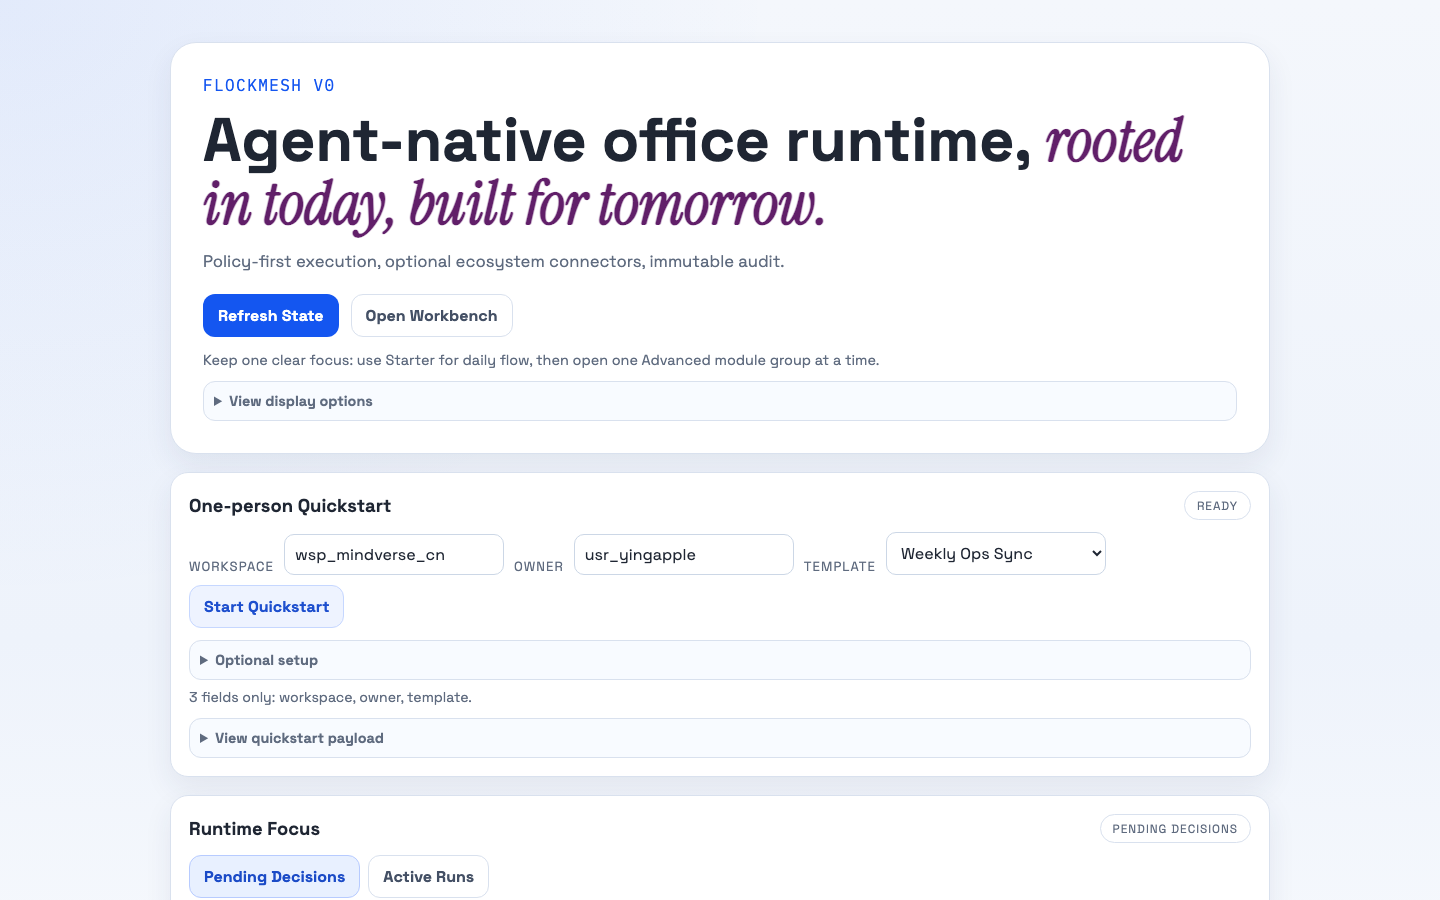
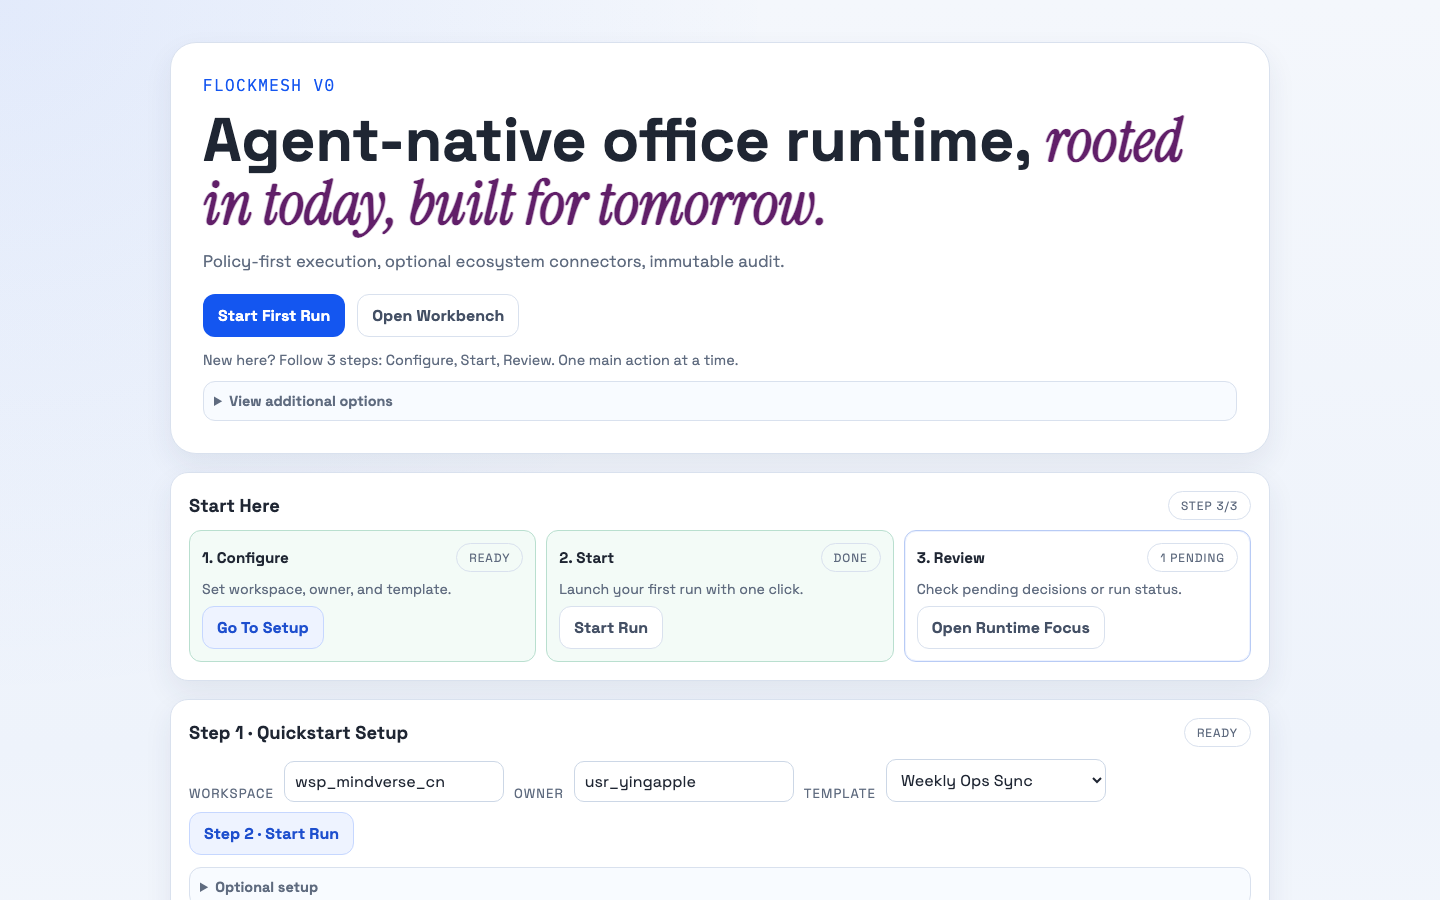
feat: enforce path-first onboarding and single-focus CTAs

diff --git a/public/ui.js b/public/ui.js
@@ -55,10 +55,23 @@ const WORKBENCH_SECTION_SET = new Set(['agent', 'governance', 'observability']);
 
 const els = {
   bootstrapBtn: document.getElementById('bootstrapBtn'),
+  heroStartQuickstartBtn: document.getElementById('heroStartQuickstartBtn'),
   refreshBtn: document.getElementById('refreshBtn'),
   starterModeBtn: document.getElementById('starterModeBtn'),
   advancedModeBtn: document.getElementById('advancedModeBtn'),
   compactToggleBtn: document.getElementById('compactToggleBtn'),
+  quickstartSection: document.getElementById('quickstartSection'),
+  runtimeFocusSection: document.getElementById('runtimeFocusSection'),
+  journeyTag: document.getElementById('journeyTag'),
+  journeyStepSetup: document.getElementById('journeyStepSetup'),
+  journeyStepRun: document.getElementById('journeyStepRun'),
+  journeyStepReview: document.getElementById('journeyStepReview'),
+  journeySetupStatus: document.getElementById('journeySetupStatus'),
+  journeyRunStatus: document.getElementById('journeyRunStatus'),
+  journeyReviewStatus: document.getElementById('journeyReviewStatus'),
+  journeyGoSetupBtn: document.getElementById('journeyGoSetupBtn'),
+  journeyStartRunBtn: document.getElementById('journeyStartRunBtn'),
+  journeyReviewBtn: document.getElementById('journeyReviewBtn'),
   quickstartTag: document.getElementById('quickstartTag'),
   quickstartWorkspaceInput: document.getElementById('quickstartWorkspaceInput'),
   quickstartOwnerInput: document.getElementById('quickstartOwnerInput'),
@@ -369,6 +382,55 @@ function setRuntimeView(view) {
   els.runtimeViewRunsBtn.classList.toggle('btn-secondary', !showApprovals);
   els.runtimeViewRunsBtn.classList.toggle('btn-ghost', showApprovals);
   els.runtimeFocusTag.textContent = showApprovals ? 'pending decisions' : 'active runs';
+}
+
+function quickstartSetupReady() {
+  const workspaceId = String(els.quickstartWorkspaceInput.value || '').trim();
+  const ownerId = String(els.quickstartOwnerInput.value || '').trim();
+  const templateId = selectedQuickstartTemplateId();
+  return Boolean(workspaceId && ownerId && templateId);
+}
+
+function focusQuickstartSetup() {
+  els.quickstartSection.scrollIntoView({ behavior: 'smooth', block: 'start' });
+  if (!String(els.quickstartWorkspaceInput.value || '').trim()) {
+    els.quickstartWorkspaceInput.focus();
+    return;
+  }
+  if (!String(els.quickstartOwnerInput.value || '').trim()) {
+    els.quickstartOwnerInput.focus();
+    return;
+  }
+  els.quickstartStartBtn.focus();
+}
+
+function updateJourneyState() {
+  const setupReady = quickstartSetupReady();
+  const hasRuns = state.runs.length > 0;
+  const pendingCount = state.pendingApprovals.length;
+  const activeStep = !setupReady ? 1 : (hasRuns ? 3 : 2);
+
+  els.journeyTag.textContent = `step ${activeStep}/3`;
+  els.journeySetupStatus.textContent = setupReady ? 'ready' : 'required';
+  els.journeyRunStatus.textContent = hasRuns ? 'done' : (setupReady ? 'next' : 'blocked');
+  els.journeyReviewStatus.textContent = hasRuns ? (pendingCount ? `${pendingCount} pending` : 'ready') : 'locked';
+
+  els.journeyStepSetup.classList.toggle('is-active', activeStep === 1);
+  els.journeyStepRun.classList.toggle('is-active', activeStep === 2);
+  els.journeyStepReview.classList.toggle('is-active', activeStep === 3);
+  els.journeyStepSetup.classList.toggle('is-complete', setupReady);
+  els.journeyStepRun.classList.toggle('is-complete', hasRuns);
+  els.journeyStepReview.classList.toggle('is-complete', hasRuns && pendingCount === 0);
+
+  els.journeyStartRunBtn.disabled = !setupReady;
+  els.journeyReviewBtn.disabled = !hasRuns;
+  els.heroStartQuickstartBtn.disabled = !setupReady;
+}
+
+function openRuntimeReview() {
+  const preferred = state.pendingApprovals.length ? 'approvals' : 'runs';
+  setRuntimeView(preferred);
+  els.runtimeFocusSection.scrollIntoView({ behavior: 'smooth', block: 'start' });
 }
 
 function listWorkbenchGroups() {
@@ -2048,6 +2110,7 @@ function refreshRuntimeViews() {
   renderRunFeed();
   renderApprovalInbox();
   setRuntimeView(state.runtimeView);
+  updateJourneyState();
   refreshTimelineRunSelect();
 }
 
@@ -2079,6 +2142,7 @@ async function startOnePersonQuickstart() {
       loadConnectorGovernance()
     ]);
     refreshRuntimeViews();
+    openRuntimeReview();
     await refreshTimelineForSelectedRun();
 
     logAction(`quickstart:${templateId}`, {
@@ -2224,8 +2288,34 @@ async function bootstrapDemo() {
 }
 
 els.bootstrapBtn.addEventListener('click', bootstrapDemo);
+els.heroStartQuickstartBtn.addEventListener('click', async () => {
+  if (!quickstartSetupReady()) {
+    focusQuickstartSetup();
+    return;
+  }
+  await startOnePersonQuickstart();
+});
+els.journeyGoSetupBtn.addEventListener('click', () => {
+  focusQuickstartSetup();
+});
+els.journeyStartRunBtn.addEventListener('click', async () => {
+  if (!quickstartSetupReady()) {
+    focusQuickstartSetup();
+    return;
+  }
+  await startOnePersonQuickstart();
+});
+els.journeyReviewBtn.addEventListener('click', () => {
+  openRuntimeReview();
+});
 els.quickstartStartBtn.addEventListener('click', async () => {
   await startOnePersonQuickstart();
+});
+els.quickstartWorkspaceInput.addEventListener('input', () => {
+  updateJourneyState();
+});
+els.quickstartOwnerInput.addEventListener('input', () => {
+  updateJourneyState();
 });
 els.quickstartTemplateSelect.addEventListener('change', () => {
   if (!parseCsvUnique(els.quickstartConnectorIdsInput.value).length) {
@@ -2235,8 +2325,9 @@ els.quickstartTemplateSelect.addEventListener('change', () => {
   if (!state.quickstartResult) {
     const templateId = selectedQuickstartTemplateId();
     const template = ONE_PERSON_QUICKSTART_TEMPLATES[templateId];
-    els.quickstartMeta.textContent = `Template ${template?.label || templateId} selected. Click Start Quickstart.`;
+    els.quickstartMeta.textContent = `Template ${template?.label || templateId} selected. Click Step 2 · Start Run.`;
   }
+  updateJourneyState();
 });
 els.blueprintReloadBtn.addEventListener('click', async () => {
   await loadAgentKits();
@@ -2532,6 +2623,7 @@ try {
     openPrimaryWorkbenchGroup();
   }
   setCompactMode(readInitialCompactMode(), { persist: false });
+  updateJourneyState();
   await Promise.all([
     loadHealth(),
     syncState(),

diff --git a/public/index.html b/public/index.html
@@ -27,24 +27,58 @@
           Policy-first execution, optional ecosystem connectors, immutable audit.
         </p>
         <div class="hero-actions">
-          <button id="refreshBtn" class="btn btn-primary">Refresh State</button>
-          <button id="starterModeBtn" class="btn btn-ghost">Back To Focus</button>
+          <button id="heroStartQuickstartBtn" class="btn btn-primary" data-ui-mode="starter">Start First Run</button>
           <button id="advancedModeBtn" class="btn btn-ghost">Open Workbench</button>
         </div>
         <p class="hero-helper">
-          Keep one clear focus: use Starter for daily flow, then open one Advanced module group at a time.
+          New here? Follow 3 steps: Configure, Start, Review. One main action at a time.
         </p>
         <details class="advanced-tools-details progressive-disclosure hero-disclosure">
-          <summary>View display options</summary>
+          <summary>View additional options</summary>
           <div class="timeline-controls">
+            <button id="refreshBtn" class="btn btn-ghost">Refresh State</button>
+            <button id="starterModeBtn" class="btn btn-ghost">Back To Focus</button>
             <button id="compactToggleBtn" class="btn btn-ghost">Compact: Off</button>
           </div>
         </details>
       </header>
 
-      <section class="panel reveal">
+      <section class="panel reveal journey-panel" data-ui-mode="starter">
         <div class="panel-head">
-          <h2>One-person Quickstart</h2>
+          <h2>Start Here</h2>
+          <span id="journeyTag" class="tag">step 1/3</span>
+        </div>
+        <div class="journey-grid">
+          <article id="journeyStepSetup" class="journey-step is-active">
+            <div class="journey-head">
+              <h3>1. Configure</h3>
+              <span id="journeySetupStatus" class="tag">required</span>
+            </div>
+            <p class="run-meta">Set workspace, owner, and template.</p>
+            <button id="journeyGoSetupBtn" class="btn btn-secondary">Go To Setup</button>
+          </article>
+          <article id="journeyStepRun" class="journey-step">
+            <div class="journey-head">
+              <h3>2. Start</h3>
+              <span id="journeyRunStatus" class="tag">next</span>
+            </div>
+            <p class="run-meta">Launch your first run with one click.</p>
+            <button id="journeyStartRunBtn" class="btn btn-ghost">Start Run</button>
+          </article>
+          <article id="journeyStepReview" class="journey-step">
+            <div class="journey-head">
+              <h3>3. Review</h3>
+              <span id="journeyReviewStatus" class="tag">locked</span>
+            </div>
+            <p class="run-meta">Check pending decisions or run status.</p>
+            <button id="journeyReviewBtn" class="btn btn-ghost">Open Runtime Focus</button>
+          </article>
+        </div>
+      </section>
+
+      <section class="panel reveal" id="quickstartSection">
+        <div class="panel-head">
+          <h2>Step 1 · Quickstart Setup</h2>
           <span id="quickstartTag" class="tag">ready</span>
         </div>
         <div class="timeline-controls quickstart-primary">
@@ -57,7 +91,7 @@
             <option value="weekly_ops_sync">Weekly Ops Sync</option>
             <option value="incident_response">Incident Response</option>
           </select>
-          <button id="quickstartStartBtn" class="btn btn-secondary">Start Quickstart</button>
+          <button id="quickstartStartBtn" class="btn btn-secondary">Step 2 · Start Run</button>
         </div>
         <details class="advanced-tools-details progressive-disclosure">
           <summary>Optional setup</summary>
@@ -85,9 +119,9 @@
         </details>
       </section>
 
-      <section class="panel reveal">
+      <section class="panel reveal" id="runtimeFocusSection">
         <div class="panel-head">
-          <h2>Runtime Focus</h2>
+          <h2>Step 3 · Runtime Focus</h2>
           <span id="runtimeFocusTag" class="tag">pending decisions</span>
         </div>
         <div class="mode-tabs">

diff --git a/public/styles.css b/public/styles.css
@@ -111,6 +111,50 @@ body {
   margin-top: 10px;
 }
 
+.journey-panel {
+  border-color: #cbd8ef;
+}
+
+.journey-grid {
+  margin-top: 10px;
+  display: grid;
+  grid-template-columns: repeat(3, minmax(0, 1fr));
+  gap: 10px;
+}
+
+.journey-step {
+  border: 1px solid #d9e1ee;
+  border-radius: 12px;
+  background: #fff;
+  padding: 12px;
+}
+
+.journey-step.is-active {
+  border-color: #b8cbf5;
+  box-shadow: inset 0 0 0 1px rgba(20, 86, 240, 0.08);
+}
+
+.journey-step.is-complete {
+  border-color: #b9dfcf;
+  background: #f3fbf7;
+}
+
+.journey-head {
+  display: flex;
+  align-items: center;
+  justify-content: space-between;
+  gap: 8px;
+}
+
+.journey-head h3 {
+  margin: 0;
+  font-size: 0.95rem;
+}
+
+.journey-step .btn {
+  margin-top: 8px;
+}
+
 .mode-tabs {
   margin-top: 12px;
   display: flex;
@@ -618,6 +662,12 @@ body {
   transform: translateY(0);
 }
 
+.btn:disabled {
+  opacity: 0.45;
+  cursor: not-allowed;
+  transform: none;
+}
+
 .btn-primary {
   background: var(--accent-0);
   color: #fff;
@@ -765,6 +815,10 @@ body.compact-mode .code-box {
 }
 
 @media (max-width: 900px) {
+  .journey-grid {
+    grid-template-columns: 1fr;
+  }
+
   .focus-metrics {
     grid-template-columns: repeat(2, minmax(0, 1fr));
   }
@@ -802,6 +856,10 @@ body.compact-mode .code-box {
 @media (max-width: 620px) {
   .app-shell {
     padding-top: 20px;
+  }
+
+  .journey-grid {
+    grid-template-columns: 1fr;
   }
 
   .focus-metrics {
